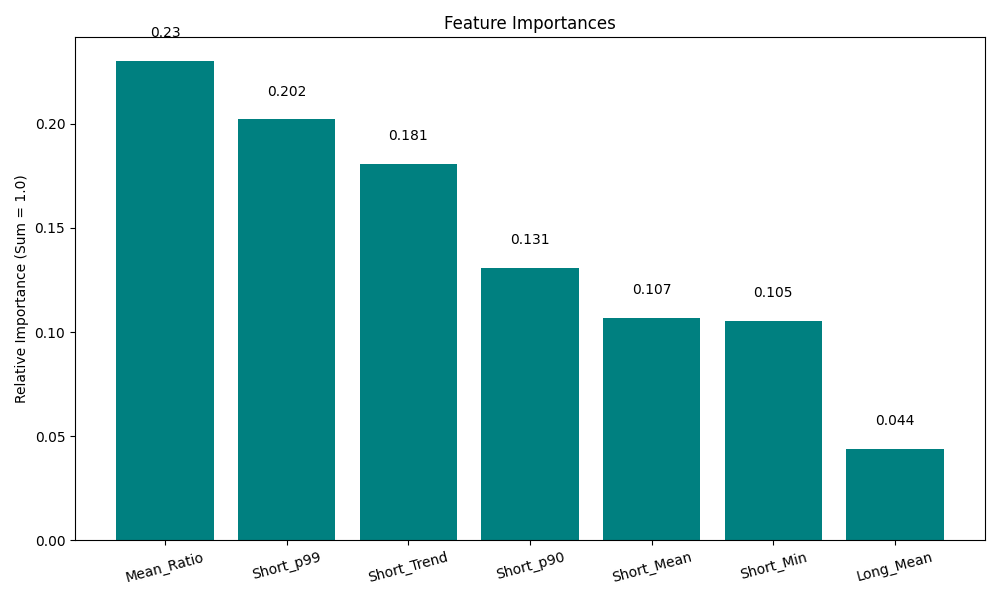
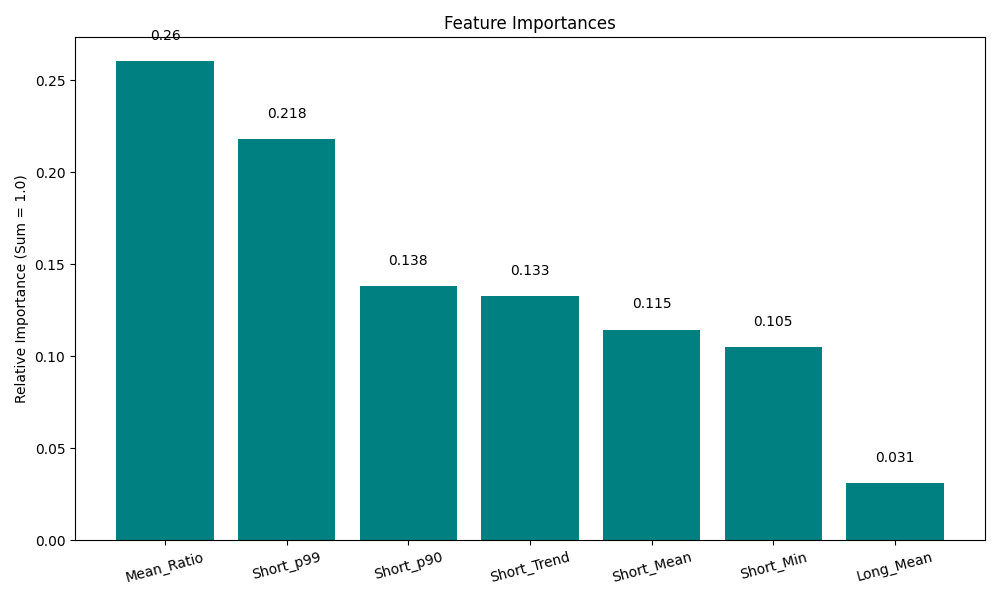
Lock random seed for reproducibility and update README evaluation metrics

diff --git a/src/generate_synthetic_timeseries.py b/src/generate_synthetic_timeseries.py
@@ -1,10 +1,11 @@
 import numpy as np
 import matplotlib.pyplot as plt
 import random
+import config
 
 
-# np.random.seed(42)
-# random.seed(42)
+np.random.seed(config.SEED)
+random.seed(config.SEED)
 
 def generate_synthetic_timeseries(length=3000, num_incidents=10):
     t = np.arange(length)

diff --git a/src/config.py b/src/config.py
@@ -1,5 +1,6 @@
 import os
 
+SEED = 101
 SERIES_LENGTH = 3000
 NUM_INCIDENTS = 15
 

diff --git a/README.md b/README.md
@@ -107,8 +107,16 @@ The model was evaluated on a chronologically held-out test set.
 * **Recall:** 0.94 (Successfully caught 94% of incident windows)
 * **F1-Score:** 0.94
 
-![Evaluation Metrics](images/eval_metrics.png)
-*Output of the classification report and dynamic threshold calculation.*
+**Classification Report (Optimal Threshold: 0.34)**
+
+| Class | Precision | Recall | F1-Score | Support |
+| :--- | :---: | :---: | :---: | :---: |
+| **Normal** | 1.00 | 0.90 | 0.95 | 478 |
+| **Incident** | 0.89 | 1.00 | 0.94 | 390 |
+| | | | | |
+| **Accuracy** | | | **0.94** | 868 |
+| **Macro Avg** | 0.95 | 0.95 | 0.94 | 868 |
+| **Weighted Avg** | 0.95 | 0.94 | 0.94 | 868 |
 
 ### Visualizing the Alerts
 The plot below demonstrates the model successfully predicting both sudden spikes and slow resource saturation anomalies, while ignoring the normal diurnal wave pattern and baseline noise.
